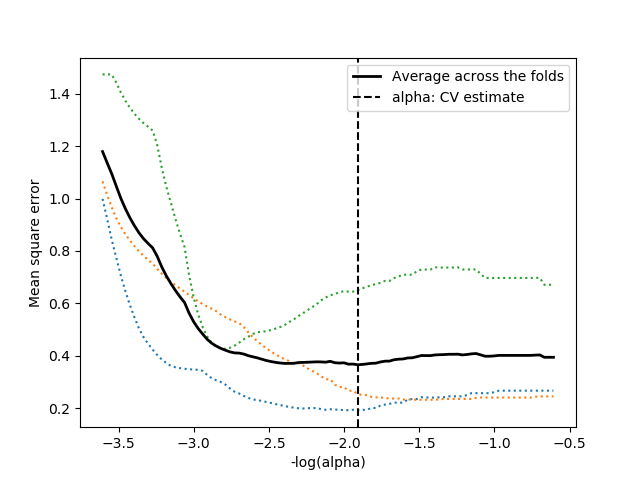
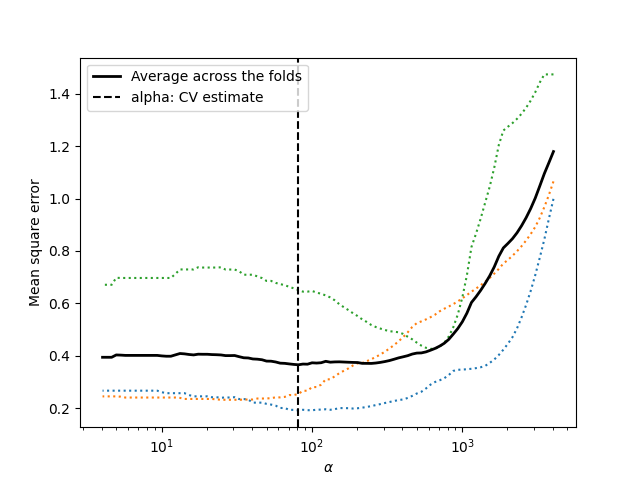
Generate Pelican site

diff --git a/searchindex.js b/searchindex.js
@@ -1,1 +1,1 @@
-Search.setIndex({docnames:["api","auto_examples/index","auto_examples/plot_finance_path","auto_examples/plot_lasso_cv","auto_examples/plot_leukemia_path","auto_examples/sg_execution_times","generated/celer.Lasso","generated/celer.LassoCV","generated/celer.LogisticRegression","generated/celer.MultiTaskLasso","generated/celer.MultiTaskLassoCV","generated/celer.celer","generated/celer.celer_path","index"],envversion:{"sphinx.domains.c":1,"sphinx.domains.changeset":1,"sphinx.domains.citation":1,"sphinx.domains.cpp":1,"sphinx.domains.index":1,"sphinx.domains.javascript":1,"sphinx.domains.math":2,"sphinx.domains.python":1,"sphinx.domains.rst":1,"sphinx.domains.std":1,"sphinx.ext.intersphinx":1,sphinx:56},filenames:["api.rst","auto_examples/index.rst","auto_examples/plot_finance_path.rst","auto_examples/plot_lasso_cv.rst","auto_examples/plot_leukemia_path.rst","auto_examples/sg_execution_times.rst","generated/celer.Lasso.rst","generated/celer.LassoCV.rst","generated/celer.LogisticRegression.rst","generated/celer.MultiTaskLasso.rst","generated/celer.MultiTaskLassoCV.rst","generated/celer.celer.rst","generated/celer.celer_path.rst","index.rst"],objects:{"celer.Lasso":{__init__:[6,1,1,""]},"celer.LassoCV":{__init__:[7,1,1,""]},"celer.LogisticRegression":{__init__:[8,1,1,""]},"celer.MultiTaskLasso":{__init__:[9,1,1,""]},"celer.MultiTaskLassoCV":{__init__:[10,1,1,""]},celer:{Lasso:[6,0,1,""],LassoCV:[7,0,1,""],LogisticRegression:[8,0,1,""],MultiTaskLasso:[9,0,1,""],MultiTaskLassoCV:[10,0,1,""],celer:[11,2,1,""],celer_path:[12,2,1,""]}},objnames:{"0":["py","class","Python class"],"1":["py","method","Python method"],"2":["py","function","Python function"]},objtypes:{"0":"py:class","1":"py:method","2":"py:function"},terms:{"0535517709928683e":4,"0765661510324662e":4,"1667170569728e":4,"200000000000004e":4,"2_2":[6,7,9,10],"339301449134524e":4,"35481672425675e":4,"35th":13,"4048790083265317e":4,"421917989081095e":4,"4293411548192978e":4,"518710595360133e":4,"5788610380247405e":4,"637124461723488e":4,"642283540221229e":4,"691902724867191e":4,"903156405473453e":4,"boolean":[7,10],"break":12,"class":[6,7,8,9,10],"default":[6,7,8,9,10,11,12],"final":11,"float":[3,4,6,7,8,9,10,11,12],"function":[0,6,7,8,9,10,11],"import":[2,3,4,6,8,9,13],"int":[6,7,8,9,10,11,12],"long":2,"return":[11,12],"true":[2,4,6,7,8,9,10,11,12],"while":[8,11],For:[6,7,9,10],Not:8,The:[2,3,4,6,7,8,9,10,11,12],Use:2,Used:12,__doc__:[2,3,4],__init__:[6,7,8,9,10],_coordinate_desc:4,_preprocess_data:12,abl:13,abs:[2,4,8,13],acceler:11,accur:[6,7,8,9,10],across:3,advis:[6,9],agg:[2,3,4],alexandr:13,algorithm:[2,3,4,11,12,13],all:1,along:[7,10,12],alpha:[2,3,4,6,7,9,10,11,12],alpha_:[3,7,10],alpha_max:[2,4,7,10,12],alpha_min:[7,10,12],alphas_:[3,7,10],alreadi:[7,10],aml:[3,4],amount:[6,7,8,9,10,12],anaconda:13,ani:13,arrai:[6,7,9,10,11,12],articl:13,arxiv:[8,13],asfortranarrai:[3,4],astyp:[3,4],attribut:[6,7,8,9,10],author:13,auto:[7,10],auto_exampl:5,auto_examples_jupyt:1,auto_examples_python:1,automat:[7,10,12],avail:13,averag:3,avoid:[11,12],axi:3,axvlin:3,backend:[2,3,4],base:[6,7,8,9,10,12],befor:[6,7,9,10],below:11,best:[7,10],between:[6,9,11,12],binari:8,block:[2,4],booktitl:13,bool:[6,7,8,9,10,11,12],calcul:[7,10],call:[6,8,9,11],can:13,cannot:[2,3,4],caus:3,celer:[2,3,4],celer_path:[2,4,6,7,8,9,10],center:[7,10,12],check:13,chosen:[7,10],classes_:8,classifi:8,clf:[6,8,9],click:[2,3,4],clone:13,coars:[2,4],code:[1,2,3,4,13],coef:[2,4,12],coef_:[6,7,8,9,10],coef_init:12,coeffici:[6,7,8,11,12],color:3,column:[11,12],com:13,compar:[2,4],compat:[7,10],compil:13,comput:[1,6,7,9,10,11,12],confer:13,constant:[6,8,9],constraint:13,construct:2,contigu:[11,12],control:13,converg:[3,4],convergencewarn:[3,4],coordin:[6,7,8,9,10,11,12],cost:[6,7,9,10],cross:[1,5,7,10],csc:[11,12],current:[2,3,4,8],cython:13,data:[2,3,4,7,10,11,12],dataset:[1,5],decis:[6,7,8,9,10],definit:[6,7,8,9,10,11,12],defualt:12,dens:4,descent:[6,7,8,9,10,11,12],detail:8,determin:[7,10],did:[3,4],directli:[11,12],displai:3,distribut:13,divid:[6,7,9,10],doc:13,doing:2,don:13,dot:[2,4],download:[1,2,3,4],dual:[6,7,8,9,10,11,12,13],dual_gap:[4,12],dual_gap_:[7,10],dualiti:[4,6,7,8,9,10,11,12],duplic:[11,12],each:[6,7,8,9,10,12],elimin:13,els:[2,4],enabl:13,end:[7,10],enumer:[2,4],environ:13,epoch:[6,7,8,9,10,11,12],eps:[7,10,12],equival:[6,9],eras:[6,8,9],error:[3,7,10,13],estim:[0,3,6,7,8,9,10,11],everi:[7,10,11],everyth:13,exampl:[2,3,4,6,8,9],execut:5,exist:2,exit:11,expect:[7,10],extrapol:[6,8,9,13],fals:[2,4,6,7,8,9,10,11,12],far:8,fast:[6,9,13],featur:[7,8,10,13],fetch_openml:[3,4],fig:[2,4],figsiz:[2,4],figur:[2,3,4],file:5,financ:[1,5],fine:[2,4,13],first:[6,7,8,9,10,11,12,13],fit:[3,6,7,8,9,10],fit_intercept:[6,7,8,9,10],fold:[3,7,10],forc:[6,7,11,12],format:[11,12],formula:[6,7,9,10],fortran:[11,12],frac:11,from:[2,3,4,6,8,9,13],full:[2,3,4],galleri:[2,3,4],gap:[2,4,6,7,8,9,10,11,12],gap_freq:[2,4,6,7,9,10,11,12],gener:[1,2,3,4,7,8,10,13],git:13,github:13,give:13,given:8,goe:11,gramfort:[6,8,9,13],grid:[2,4,7,10],grow:[6,7,9,10,11,12],gui:[2,3,4],handl:8,help:[6,7,8,9,10],here:[2,3,4],home:[2,3,4],homotopi:3,html:[6,9,13],http:[6,8,9,13],icml:[6,9],identif:13,ignor:[6,7,9,10],implement:[2,4],increas:[3,4],independ:[7,10],initi:[6,7,8,9,10,11,12],inner:[7,10,11,12],inproceed:13,input:[7,10],integ:[6,7,8,9,10,12],intercept:[6,7,8,9,10],intercept_:[6,7,8,9,10],intern:13,invers:8,ipynb:[2,3,4],iter:[3,4,6,7,8,9,10,11,12],joseph:13,journal:13,jupyt:[1,2,3,4],just:[6,8,9,13],kept:[7,10],kfold:[7,10],known:8,label:[2,3,4,8],larg:2,lasso:[1,5,7,9,10,11,12,13],lasso_path:4,lassocv:[1,5,6,9],learn:[2,3,4,6,7,8,9,10,13],least:[6,9],legend:3,len:[2,3,4],length:[7,10,12],leukemia:[1,5],level:11,librari:13,like:[3,11,12],linear:[8,13],linear_model:[4,12],linestyl:3,linewidth:3,link:13,list:[7,8,10,12],load:[3,4],load_libsvm:2,log10:3,log1p:[1,5],log:[3,8,11],logisitc:[],logist:[8,11],logreg:[11,12],logspac:[2,4],loop:[7,10,11],m_log_alpha:3,machin:13,mai:[2,3],make:[2,13],massia:[6,8,9,13],massias18a:[6,9,13],massias2019du:13,mathurin:[2,3,4,13],mathurinm:13,matplotlib:[2,3,4],matrix:[6,9,11,12],max:[2,4],max_epoch:[6,7,8,9,10,11,12],max_it:[2,4,6,7,8,9,10,11,12],maximum:[6,7,8,9,10,11,12],mean:[3,4,6,7,9,10,12],memori:[11,12],messag:13,method:[6,7,8,9,10],might:[3,4],minut:[2,3,4],mlr:[6,9],model:[3,7,8,10,12,13],more:2,mse_path_:[3,7,10],multi:10,multipli:[6,9],must:8,n_alpha:[2,4,7,10,12],n_class:8,n_featur:[6,7,8,9,10,11,12],n_fold:[7,10],n_iter:11,n_iter_:[6,7,8,9,10],n_job:10,n_output:10,n_sampl:[2,3,4,6,7,8,9,10,11,12],ndarrai:[7,8,10,12],need:13,newton:8,non:[2,3,4],none:[2,4,7,10,11,12],norm:[6,7,9,10,12],normal:[6,7,9,10],notebook:[1,2,3,4],noth:2,number:[3,4,6,7,8,9,10,11,12],numer:[6,9],numpi:[2,3,4,7,10],object:[3,4,6,7,8,9,10,11],observ:11,onli:[8,11,12],optim:[6,7,8,9,10,11,12,13],option:[6,7,8,9,10,11,12],ordinari:[6,9],org:[8,13],other:8,otherwis:[6,8,9],out:[2,3,4],outer:11,packag:13,page:13,parallel:10,paramet:[2,3,6,7,8,9,10,11,12],pass:[11,12],path:[1,5,7,10,12],penal:[7,10],penalti:8,pip:13,pleas:13,plot:3,plot_finance_path:[2,5],plot_lasso_cv:[3,5],plot_leukemia_path:[4,5],plot_path_hist:[2,4],plot_util:[2,4],plt:[2,3,4],pmlr:13,point:[11,13],posit:[4,6,7,8,11,12],possibl:[7,10],potenti:11,precis:3,precomput:[7,10],preprint:[8,13],press:[6,9],previou:[6,8,9],print:[2,3,4,6,8,9],problem:[3,8,12],proceed:[6,9,13],prox:8,prune:[2,4,6,7,9,10,11,12],pyplot:[2,3,4],python:[1,2,3,4,13],quick:13,r9848a8cfb00c:6,ra8751a6fb477:8,reach:[6,7,8,9,10,11,12],reason:[6,9],recommend:13,refer:[6,8,9],regress:[6,7,8,9,10,11],regressor:[6,7,9,10],regular:[2,3,7,8,10,11,12],replac:2,repositori:13,represent:[6,9],res:[2,4],residu:13,restrict:8,result:[2,3,4],return_n_it:[11,12],return_theta:[2,4,12],reus:[6,8,9],rfac9a229594a:9,run:[1,2,4,5,6,7,8,9,10,12,13],salmon:[6,8,9,13],samuel:13,scale:12,scikit:[2,3,4,6,7,8,9,10],scipi:[6,9],script:[2,3,4],sec:8,second:[2,3,4],see:[6,7,8,9,10,12],select:[7,10],self:[6,7,8,9,10],set:[6,7,8,9,10,11,12],shape:[2,6,7,8,9,10,11,12],shell:13,should:13,show:[2,3,4],signatur:[6,7,8,9,10],size:[6,8,9,11,12],sklearn:[3,4,7,10,12],small:3,smaller:[6,7,8,9,10,12],solut:[6,8,9,11],solv:[6,7,8,9,10,11,12],solver:[6,7,8,9,10,11,12,13],sourc:[1,2,3,4],spars:[2,6,8,9,11,12,13],sparse_coef_:[6,9],sparsiti:12,specifi:[6,7,8,9,10],sphinx:[1,2,3,4],sphinx_bootstrap_them:13,sphinx_galleri:13,split:[7,10],squar:[3,6,7,9,10],start:[2,4],std:4,still:13,stop:11,strategi:[7,8,10],strength:8,subproblem:[6,7,8,9,10,11,12],subset:8,subtract:[6,7,9,10],sum_1:8,sum_:11,support:8,take:2,target:[3,4,12],task:10,term:[6,7,8,9,10],test:[7,10],text:11,than:[2,6,7,8,9,10,12],theta:[2,4,11,12],thi:[2,6,7,9,10,13],tight:[3,13],time:[2,3,4],titl:13,tol:[2,4,6,7,8,9,10,11,12],tol_ix:[2,4],toler:[4,6,7,8,9,10,11,12],too:2,top:11,total:[2,3,4,5],train:[7,10,11,12],type:[6,7,8,9,10],unnecessari:[11,12],until:[6,7,8,9,10,12],use:[6,7,8,9,10,11,12,13],used:[7,10,12],userwarn:[2,3,4],uses:[8,13],using:[2,3,4,6,9,13],v80:[6,9,13],vaiter:[8,13],valid:[1,5,7,10],valu:[11,12],vari:[7,10],variabl:12,vector:[6,7,9,10,11],verbos:[2,4,6,7,8,9,10,11,12],verbose_inn:[2,4,11,12],veri:3,volum:13,w_init:11,want:[3,4,13],warm_start:[6,8,9],warn:2,when:[6,7,8,9,10,11,12],where:[7,10,12],whether:[6,7,8,9,10,11,12],which:[2,3,4,13],wit:[6,9],without:12,work:[6,7,8,9,10,11,12,13],workspac:[2,3,4],x_i:[8,11],x_offset:12,x_scale:12,xlabel:3,y_i:[8,11],year:13,yet:8,yield:[7,10],ylabel:3,ylim:[2,4],you:[3,4,13],zero:[2,4,12],zip:1},titles:["API Documentation","Examples Gallery","Lasso path computation on Finance/log1p dataset","Run LassoCV for cross-validation on Leukemia dataset","Lasso path computation on Leukemia dataset","Computation times","celer.Lasso","celer.LassoCV","celer.LogisticRegression","celer.MultiTaskLasso","celer.MultiTaskLassoCV","celer.celer","celer.celer_path","Celer"],titleterms:{api:[0,13],build:13,celer:[0,6,7,8,9,10,11,12,13],celer_path:12,cite:13,comput:[2,4,5],cross:3,dataset:[2,3,4],document:[0,13],exampl:1,financ:2,galleri:1,instal:13,lasso:[2,4,6],lassocv:[3,7],leukemia:[3,4],log1p:2,logisticregress:8,multitasklasso:9,multitasklassocv:10,path:[2,4],run:3,time:5,valid:3}})
+Search.setIndex({docnames:["api","auto_examples/index","auto_examples/plot_finance_path","auto_examples/plot_lasso_cv","auto_examples/plot_leukemia_path","auto_examples/sg_execution_times","generated/celer.Lasso","generated/celer.LassoCV","generated/celer.LogisticRegression","generated/celer.MultiTaskLasso","generated/celer.MultiTaskLassoCV","generated/celer.celer","generated/celer.celer_path","index"],envversion:{"sphinx.domains.c":1,"sphinx.domains.changeset":1,"sphinx.domains.citation":1,"sphinx.domains.cpp":1,"sphinx.domains.index":1,"sphinx.domains.javascript":1,"sphinx.domains.math":2,"sphinx.domains.python":1,"sphinx.domains.rst":1,"sphinx.domains.std":1,"sphinx.ext.intersphinx":1,sphinx:56},filenames:["api.rst","auto_examples/index.rst","auto_examples/plot_finance_path.rst","auto_examples/plot_lasso_cv.rst","auto_examples/plot_leukemia_path.rst","auto_examples/sg_execution_times.rst","generated/celer.Lasso.rst","generated/celer.LassoCV.rst","generated/celer.LogisticRegression.rst","generated/celer.MultiTaskLasso.rst","generated/celer.MultiTaskLassoCV.rst","generated/celer.celer.rst","generated/celer.celer_path.rst","index.rst"],objects:{"celer.Lasso":{__init__:[6,1,1,""]},"celer.LassoCV":{__init__:[7,1,1,""]},"celer.LogisticRegression":{__init__:[8,1,1,""]},"celer.MultiTaskLasso":{__init__:[9,1,1,""]},"celer.MultiTaskLassoCV":{__init__:[10,1,1,""]},celer:{Lasso:[6,0,1,""],LassoCV:[7,0,1,""],LogisticRegression:[8,0,1,""],MultiTaskLasso:[9,0,1,""],MultiTaskLassoCV:[10,0,1,""],celer:[11,2,1,""],celer_path:[12,2,1,""]}},objnames:{"0":["py","class","Python class"],"1":["py","method","Python method"],"2":["py","function","Python function"]},objtypes:{"0":"py:class","1":"py:method","2":"py:function"},terms:{"0535517709928683e":4,"0765661510324662e":4,"1667170569728e":4,"200000000000004e":4,"2_2":[6,7,9,10],"339301449134524e":4,"35481672425675e":4,"35th":13,"4048790083265317e":4,"421917989081095e":4,"4293411548192978e":4,"518710595360133e":4,"5788610380247405e":4,"637124461723488e":4,"642283540221229e":4,"691902724867191e":4,"903156405473453e":4,"boolean":[7,10],"break":12,"class":[6,7,8,9,10],"default":[6,7,8,9,10,11,12],"final":11,"float":[3,4,6,7,8,9,10,11,12],"function":[0,6,7,8,9,10,11],"import":[2,3,4,6,8,9,13],"int":[6,7,8,9,10,11,12],"long":2,"return":[11,12],"true":[2,4,6,7,8,9,10,11,12],"while":[8,11],For:[6,7,9,10],Not:8,The:[2,3,4,6,7,8,9,10,11,12],Use:2,Used:12,__doc__:[2,3,4],__init__:[6,7,8,9,10],_coordinate_desc:4,_preprocess_data:12,abl:13,abs:[2,4,8,13],acceler:11,accur:[6,7,8,9,10],across:3,advis:[6,9],agg:[2,3,4],alexandr:13,algorithm:[2,3,4,11,12,13],all:1,along:[7,10,12],alpha:[2,3,4,6,7,9,10,11,12],alpha_:[3,7,10],alpha_max:[2,4,7,10,12],alpha_min:[7,10,12],alphas_:[3,7,10],alreadi:[7,10],aml:[3,4],amount:[6,7,8,9,10,12],anaconda:13,ani:13,arrai:[6,7,9,10,11,12],articl:13,arxiv:[8,13],asfortranarrai:[3,4],astyp:[3,4],attribut:[6,7,8,9,10],author:13,auto:[7,10],auto_exampl:5,auto_examples_jupyt:1,auto_examples_python:1,automat:[7,10,12],avail:13,averag:3,avoid:[11,12],axi:3,axvlin:3,backend:[2,3,4],base:[6,7,8,9,10,12],befor:[6,7,9,10],below:11,best:[7,10],between:[6,9,11,12],binari:8,block:[2,4],booktitl:13,bool:[6,7,8,9,10,11,12],calcul:[7,10],call:[6,8,9,11],can:13,cannot:[2,3,4],caus:3,celer:[2,3,4],celer_path:[2,4,6,7,8,9,10],center:[7,10,12],check:13,chosen:[7,10],classes_:8,classifi:8,clf:[6,8,9],click:[2,3,4],clone:13,coars:[2,4],code:[1,2,3,4,13],coef:[2,4,12],coef_:[6,7,8,9,10],coef_init:12,coeffici:[6,7,8,11,12],color:3,column:[11,12],com:13,compar:[2,4],compat:[7,10],compil:13,comput:[1,6,7,9,10,11,12],confer:13,constant:[6,8,9],constraint:13,construct:2,contigu:[11,12],control:13,converg:[3,4],convergencewarn:[3,4],coordin:[6,7,8,9,10,11,12],cost:[6,7,9,10],cross:[1,5,7,10],csc:[11,12],current:[2,3,4,8],cython:13,data:[2,3,4,7,10,11,12],dataset:[1,5],decis:[6,7,8,9,10],definit:[6,7,8,9,10,11,12],defualt:12,dens:4,descent:[6,7,8,9,10,11,12],detail:8,determin:[7,10],did:[3,4],directli:[11,12],displai:3,distribut:13,divid:[6,7,9,10],doc:13,doing:2,don:13,dot:[2,4],download:[1,2,3,4],dual:[6,7,8,9,10,11,12,13],dual_gap:[4,12],dual_gap_:[7,10],dualiti:[4,6,7,8,9,10,11,12],duplic:[11,12],each:[6,7,8,9,10,12],elimin:13,els:[2,4],enabl:13,end:[7,10],enumer:[2,4],environ:13,epoch:[6,7,8,9,10,11,12],eps:[7,10,12],equival:[6,9],eras:[6,8,9],error:[3,7,10,13],estim:[0,3,6,7,8,9,10,11],everi:[7,10,11],everyth:13,exampl:[2,3,4,6,8,9],execut:5,exist:2,exit:11,expect:[7,10],extrapol:[6,8,9,13],fals:[2,4,6,7,8,9,10,11,12],far:8,fast:[6,9,13],featur:[7,8,10,13],fetch_openml:[3,4],fig:[2,4],figsiz:[2,4],figur:[2,3,4],file:5,financ:[1,5],fine:[2,4,13],first:[6,7,8,9,10,11,12,13],fit:[3,6,7,8,9,10],fit_intercept:[6,7,8,9,10],fold:[3,7,10],forc:[6,7,11,12],format:[11,12],formula:[6,7,9,10],fortran:[11,12],frac:11,from:[2,3,4,6,8,9,13],full:[2,3,4],galleri:[2,3,4],gap:[2,4,6,7,8,9,10,11,12],gap_freq:[2,4,6,7,9,10,11,12],gener:[1,2,3,4,7,8,10,13],git:13,github:13,give:13,given:8,goe:11,gramfort:[6,8,9,13],grid:[2,4,7,10],grow:[6,7,9,10,11,12],gui:[2,3,4],handl:8,help:[6,7,8,9,10],here:[2,3,4],home:[2,3,4],homotopi:3,html:[6,9,13],http:[6,8,9,13],icml:[6,9],identif:13,ignor:[6,7,9,10],implement:[2,4],increas:[3,4],independ:[7,10],initi:[6,7,8,9,10,11,12],inner:[7,10,11,12],inproceed:13,input:[7,10],integ:[6,7,8,9,10,12],intercept:[6,7,8,9,10],intercept_:[6,7,8,9,10],intern:13,invers:8,ipynb:[2,3,4],iter:[3,4,6,7,8,9,10,11,12],joseph:13,journal:13,jupyt:[1,2,3,4],just:[6,8,9,13],kept:[7,10],kfold:[7,10],known:8,label:[2,3,4,8],larg:2,lasso:[1,5,7,9,10,11,12,13],lasso_path:4,lassocv:[1,5,6,9],learn:[2,3,4,6,7,8,9,10,13],least:[6,9],legend:3,len:[2,4],length:[7,10,12],leukemia:[1,5],level:11,librari:13,like:[3,11,12],linear:[8,13],linear_model:[4,12],linestyl:3,linewidth:3,link:13,list:[7,8,10,12],load:[3,4],load_libsvm:2,log10:[],log1p:[1,5],log:[8,11],logist:[8,11],logreg:[11,12],logspac:[2,4],loop:[7,10,11],m_log_alpha:[],machin:13,mai:[2,3],make:[2,13],massia:[6,8,9,13],massias18a:[6,9,13],massias2019du:13,mathurin:[2,3,4,13],mathurinm:13,matplotlib:[2,3,4],matrix:[6,9,11,12],max:[2,4],max_epoch:[6,7,8,9,10,11,12],max_it:[2,4,6,7,8,9,10,11,12],maximum:[6,7,8,9,10,11,12],mean:[3,4,6,7,9,10,12],memori:[11,12],messag:13,method:[6,7,8,9,10],might:[3,4],minut:[2,3,4],mlr:[6,9],model:[3,7,8,10,12,13],more:2,mse_path_:[3,7,10],multi:10,multipli:[6,9],must:8,n_alpha:[2,4,7,10,12],n_class:8,n_featur:[6,7,8,9,10,11,12],n_fold:[7,10],n_iter:11,n_iter_:[6,7,8,9,10],n_job:10,n_output:10,n_sampl:[2,4,6,7,8,9,10,11,12],ndarrai:[7,8,10,12],need:13,newton:8,non:[2,3,4],none:[2,4,7,10,11,12],norm:[6,7,9,10,12],normal:[6,7,9,10],notebook:[1,2,3,4],noth:2,number:[3,4,6,7,8,9,10,11,12],numer:[6,9],numpi:[2,3,4,7,10],object:[3,4,6,7,8,9,10,11],observ:11,onli:[8,11,12],optim:[6,7,8,9,10,11,12,13],option:[6,7,8,9,10,11,12],ordinari:[6,9],org:[8,13],other:8,otherwis:[6,8,9],out:[2,3,4],outer:11,packag:13,page:13,parallel:10,paramet:[2,3,6,7,8,9,10,11,12],pass:[11,12],path:[1,5,7,10,12],penal:[7,10],penalti:8,pip:13,pleas:13,plot:[],plot_finance_path:[2,5],plot_lasso_cv:[3,5],plot_leukemia_path:[4,5],plot_path_hist:[2,4],plot_util:[2,4],plt:[2,3,4],pmlr:13,point:[11,13],posit:[4,6,7,8,11,12],possibl:[7,10],potenti:11,precis:3,precomput:[7,10],preprint:[8,13],press:[6,9],previou:[6,8,9],print:[2,3,4,6,8,9],problem:[3,8,12],proceed:[6,9,13],prox:8,prune:[2,4,6,7,9,10,11,12],pyplot:[2,3,4],python:[1,2,3,4,13],quick:13,r9848a8cfb00c:6,ra8751a6fb477:8,reach:[6,7,8,9,10,11,12],reason:[6,9],recommend:13,refer:[6,8,9],regress:[6,7,8,9,10,11],regressor:[6,7,9,10],regular:[2,3,7,8,10,11,12],replac:2,repositori:13,represent:[6,9],res:[2,4],residu:13,restrict:8,result:[2,3,4],return_n_it:[11,12],return_theta:[2,4,12],reus:[6,8,9],rfac9a229594a:9,run:[1,2,4,5,6,7,8,9,10,12,13],salmon:[6,8,9,13],samuel:13,scale:12,scikit:[2,3,4,6,7,8,9,10],scipi:[6,9],script:[2,3,4],sec:8,second:[2,3,4],see:[6,7,8,9,10,12],select:[7,10],self:[6,7,8,9,10],semilogx:3,set:[6,7,8,9,10,11,12],shape:[2,6,7,8,9,10,11,12],shell:13,should:13,show:[2,3,4],signatur:[6,7,8,9,10],size:[6,8,9,11,12],sklearn:[3,4,7,10,12],small:3,smaller:[6,7,8,9,10,12],solut:[6,8,9,11],solv:[6,7,8,9,10,11,12],solver:[6,7,8,9,10,11,12,13],sourc:[1,2,3,4],spars:[2,6,8,9,11,12,13],sparse_coef_:[6,9],sparsiti:12,specifi:[6,7,8,9,10],sphinx:[1,2,3,4],sphinx_bootstrap_them:13,sphinx_galleri:13,split:[7,10],squar:[3,6,7,9,10],start:[2,4],std:4,still:13,stop:11,strategi:[7,8,10],strength:8,subproblem:[6,7,8,9,10,11,12],subset:8,subtract:[6,7,9,10],sum_1:8,sum_:11,support:8,take:2,target:[3,4,12],task:10,term:[6,7,8,9,10],test:[7,10],text:11,than:[2,6,7,8,9,10,12],theta:[2,4,11,12],thi:[2,6,7,9,10,13],tight:[3,13],time:[2,3,4],titl:13,tol:[2,4,6,7,8,9,10,11,12],tol_ix:[2,4],toler:[4,6,7,8,9,10,11,12],too:2,top:11,total:[2,3,4,5],train:[7,10,11,12],type:[6,7,8,9,10],unnecessari:[11,12],until:[6,7,8,9,10,12],use:[6,7,8,9,10,11,12,13],used:[7,10,12],userwarn:[2,3,4],uses:[8,13],using:[2,3,4,6,9,13],v80:[6,9,13],vaiter:[8,13],valid:[1,5,7,10],valu:[11,12],vari:[7,10],variabl:12,vector:[6,7,9,10,11],verbos:[2,4,6,7,8,9,10,11,12],verbose_inn:[2,4,11,12],veri:3,volum:13,w_init:11,want:[3,4,13],warm_start:[6,8,9],warn:2,when:[6,7,8,9,10,11,12],where:[7,10,12],whether:[6,7,8,9,10,11,12],which:[2,3,4,13],wit:[6,9],without:12,work:[6,7,8,9,10,11,12,13],workspac:[2,3,4],x_i:[8,11],x_offset:12,x_scale:12,xlabel:3,y_i:[8,11],year:13,yet:8,yield:[7,10],ylabel:3,ylim:[2,4],you:[3,4,13],zero:[2,4,12],zip:1},titles:["API Documentation","Examples Gallery","Lasso path computation on Finance/log1p dataset","Run LassoCV for cross-validation on Leukemia dataset","Lasso path computation on Leukemia dataset","Computation times","celer.Lasso","celer.LassoCV","celer.LogisticRegression","celer.MultiTaskLasso","celer.MultiTaskLassoCV","celer.celer","celer.celer_path","Celer"],titleterms:{api:[0,13],build:13,celer:[0,6,7,8,9,10,11,12,13],celer_path:12,cite:13,comput:[2,4,5],cross:3,dataset:[2,3,4],document:[0,13],exampl:1,financ:2,galleri:1,instal:13,lasso:[2,4,6],lassocv:[3,7],leukemia:[3,4],log1p:2,logisticregress:8,multitasklasso:9,multitasklassocv:10,path:[2,4],run:3,time:5,valid:3}})

diff --git a/auto_examples/plot_lasso_cv.html b/auto_examples/plot_lasso_cv.html
@@ -120,7 +120,7 @@ using the Celer algorithm.</p>
 /home/mathurin/workspace/celer/celer/homotopy.py:242: ConvergenceWarning: Objective did not converge. You might want to increase the number of iterations. Fitting data with very small alpha may cause precision problems.
   ConvergenceWarning)
 Estimated regularization parameter alpha: 81.38126193253959
-/home/mathurin/workspace/celer/examples/plot_lasso_cv.py:45: UserWarning: Matplotlib is currently using agg, which is a non-GUI backend, so cannot show the figure.
+/home/mathurin/workspace/celer/examples/plot_lasso_cv.py:43: UserWarning: Matplotlib is currently using agg, which is a non-GUI backend, so cannot show the figure.
   plt.show()
 </pre></div>
 </div>
@@ -138,34 +138,32 @@ Estimated regularization parameter alpha: 81.38126193253959
 
 <span class="nb">print</span><span class="p">(</span><span class="s2">&quot;Loading data...&quot;</span><span class="p">)</span>
 <span class="n">dataset</span> <span class="o">=</span> <a href="https://scikit-learn.org/stable/modules/generated/sklearn.datasets.fetch_openml.html#sklearn.datasets.fetch_openml" title="View documentation for sklearn.datasets.fetch_openml"><span class="n">fetch_openml</span></a><span class="p">(</span><span class="s2">&quot;leukemia&quot;</span><span class="p">)</span>
-<span class="n">X</span> <span class="o">=</span> <a href="https://docs.scipy.org/doc/numpy/reference/generated/numpy.asfortranarray.html#numpy.asfortranarray" title="View documentation for numpy.asfortranarray"><span class="n">np</span><span class="o">.</span><span class="n">asfortranarray</span></a><span class="p">(</span><span class="n">dataset</span><span class="o">.</span><span class="n">data</span><span class="o">.</span><span class="n">astype</span><span class="p">(</span><span class="nb">float</span><span class="p">))</span>
-<span class="n">y</span> <span class="o">=</span> <span class="mi">2</span> <span class="o">*</span> <span class="p">((</span><span class="n">dataset</span><span class="o">.</span><span class="n">target</span> <span class="o">==</span> <span class="s2">&quot;AML&quot;</span><span class="p">)</span> <span class="o">-</span> <span class="mf">0.5</span><span class="p">)</span>
-<span class="n">n_samples</span> <span class="o">=</span> <span class="nb">len</span><span class="p">(</span><span class="n">y</span><span class="p">)</span>
+<a href="https://docs.scipy.org/doc/numpy/reference/generated/numpy.ndarray.html#numpy.ndarray" title="View documentation for numpy.ndarray"><span class="n">X</span></a> <span class="o">=</span> <a href="https://docs.scipy.org/doc/numpy/reference/generated/numpy.asfortranarray.html#numpy.asfortranarray" title="View documentation for numpy.asfortranarray"><span class="n">np</span><span class="o">.</span><span class="n">asfortranarray</span></a><span class="p">(</span><span class="n">dataset</span><span class="o">.</span><span class="n">data</span><span class="o">.</span><span class="n">astype</span><span class="p">(</span><span class="nb">float</span><span class="p">))</span>
+<a href="https://docs.scipy.org/doc/numpy/reference/generated/numpy.ndarray.html#numpy.ndarray" title="View documentation for numpy.ndarray"><span class="n">y</span></a> <span class="o">=</span> <span class="mi">2</span> <span class="o">*</span> <span class="p">((</span><span class="n">dataset</span><span class="o">.</span><span class="n">target</span> <span class="o">==</span> <span class="s2">&quot;AML&quot;</span><span class="p">)</span> <span class="o">-</span> <span class="mf">0.5</span><span class="p">)</span>
 
-<span class="n">model</span> <span class="o">=</span> <a href="../generated/celer.LassoCV.html#celer.LassoCV" title="View documentation for celer.LassoCV"><span class="n">LassoCV</span></a><span class="p">(</span><span class="n">cv</span><span class="o">=</span><span class="mi">3</span><span class="p">)</span>
-<span class="n">model</span><span class="o">.</span><span class="n">fit</span><span class="p">(</span><span class="n">X</span><span class="p">,</span> <span class="n">y</span><span class="p">)</span>
+<a href="../generated/celer.LassoCV.html#celer.LassoCV" title="View documentation for celer.LassoCV"><span class="n">model</span></a> <span class="o">=</span> <a href="../generated/celer.LassoCV.html#celer.LassoCV" title="View documentation for celer.LassoCV"><span class="n">LassoCV</span></a><span class="p">(</span><span class="n">cv</span><span class="o">=</span><span class="mi">3</span><span class="p">)</span>
+<a href="../generated/celer.LassoCV.html#celer.LassoCV" title="View documentation for celer.LassoCV"><span class="n">model</span></a><span class="o">.</span><span class="n">fit</span><span class="p">(</span><a href="https://docs.scipy.org/doc/numpy/reference/generated/numpy.ndarray.html#numpy.ndarray" title="View documentation for numpy.ndarray"><span class="n">X</span></a><span class="p">,</span> <a href="https://docs.scipy.org/doc/numpy/reference/generated/numpy.ndarray.html#numpy.ndarray" title="View documentation for numpy.ndarray"><span class="n">y</span></a><span class="p">)</span>
 
-<span class="nb">print</span><span class="p">(</span><span class="s2">&quot;Estimated regularization parameter alpha: </span><span class="si">%s</span><span class="s2">&quot;</span> <span class="o">%</span> <span class="n">model</span><span class="o">.</span><span class="n">alpha_</span><span class="p">)</span>
+<span class="nb">print</span><span class="p">(</span><span class="s2">&quot;Estimated regularization parameter alpha: </span><span class="si">%s</span><span class="s2">&quot;</span> <span class="o">%</span> <a href="../generated/celer.LassoCV.html#celer.LassoCV" title="View documentation for celer.LassoCV"><span class="n">model</span></a><span class="o">.</span><span class="n">alpha_</span><span class="p">)</span>
 
 <span class="c1"># Display results</span>
-<span class="n">m_log_alphas</span> <span class="o">=</span> <span class="o">-</span><a href="https://docs.scipy.org/doc/numpy/reference/generated/numpy.log10.html#numpy.log10" title="View documentation for numpy.log10"><span class="n">np</span><span class="o">.</span><span class="n">log10</span></a><span class="p">(</span><span class="n">model</span><span class="o">.</span><span class="n">alphas_</span><span class="p">)</span>
 
 <a href="https://matplotlib.org/api/_as_gen/matplotlib.pyplot.figure.html#matplotlib.pyplot.figure" title="View documentation for matplotlib.pyplot.figure"><span class="n">plt</span><span class="o">.</span><span class="n">figure</span></a><span class="p">()</span>
-<a href="https://matplotlib.org/api/_as_gen/matplotlib.pyplot.plot.html#matplotlib.pyplot.plot" title="View documentation for matplotlib.pyplot.plot"><span class="n">plt</span><span class="o">.</span><span class="n">plot</span></a><span class="p">(</span><span class="n">m_log_alphas</span><span class="p">,</span> <span class="n">model</span><span class="o">.</span><span class="n">mse_path_</span><span class="p">,</span> <span class="s1">&#39;:&#39;</span><span class="p">)</span>
-<a href="https://matplotlib.org/api/_as_gen/matplotlib.pyplot.plot.html#matplotlib.pyplot.plot" title="View documentation for matplotlib.pyplot.plot"><span class="n">plt</span><span class="o">.</span><span class="n">plot</span></a><span class="p">(</span><span class="n">m_log_alphas</span><span class="p">,</span> <span class="n">model</span><span class="o">.</span><span class="n">mse_path_</span><span class="o">.</span><span class="n">mean</span><span class="p">(</span><span class="n">axis</span><span class="o">=-</span><span class="mi">1</span><span class="p">),</span> <span class="s1">&#39;k&#39;</span><span class="p">,</span>
-         <span class="n">label</span><span class="o">=</span><span class="s1">&#39;Average across the folds&#39;</span><span class="p">,</span> <span class="n">linewidth</span><span class="o">=</span><span class="mi">2</span><span class="p">)</span>
-<a href="https://matplotlib.org/api/_as_gen/matplotlib.pyplot.axvline.html#matplotlib.pyplot.axvline" title="View documentation for matplotlib.pyplot.axvline"><span class="n">plt</span><span class="o">.</span><span class="n">axvline</span></a><span class="p">(</span><span class="o">-</span><a href="https://docs.scipy.org/doc/numpy/reference/generated/numpy.log10.html#numpy.log10" title="View documentation for numpy.log10"><span class="n">np</span><span class="o">.</span><span class="n">log10</span></a><span class="p">(</span><span class="n">model</span><span class="o">.</span><span class="n">alpha_</span><span class="p">),</span> <span class="n">linestyle</span><span class="o">=</span><span class="s1">&#39;--&#39;</span><span class="p">,</span> <span class="n">color</span><span class="o">=</span><span class="s1">&#39;k&#39;</span><span class="p">,</span>
+<a href="https://matplotlib.org/api/_as_gen/matplotlib.pyplot.semilogx.html#matplotlib.pyplot.semilogx" title="View documentation for matplotlib.pyplot.semilogx"><span class="n">plt</span><span class="o">.</span><span class="n">semilogx</span></a><span class="p">(</span><a href="../generated/celer.LassoCV.html#celer.LassoCV" title="View documentation for celer.LassoCV"><span class="n">model</span></a><span class="o">.</span><span class="n">alphas_</span><span class="p">,</span> <a href="../generated/celer.LassoCV.html#celer.LassoCV" title="View documentation for celer.LassoCV"><span class="n">model</span></a><span class="o">.</span><span class="n">mse_path_</span><span class="p">,</span> <span class="s1">&#39;:&#39;</span><span class="p">)</span>
+<a href="https://matplotlib.org/api/_as_gen/matplotlib.pyplot.semilogx.html#matplotlib.pyplot.semilogx" title="View documentation for matplotlib.pyplot.semilogx"><span class="n">plt</span><span class="o">.</span><span class="n">semilogx</span></a><span class="p">(</span><a href="../generated/celer.LassoCV.html#celer.LassoCV" title="View documentation for celer.LassoCV"><span class="n">model</span></a><span class="o">.</span><span class="n">alphas_</span><span class="p">,</span> <a href="../generated/celer.LassoCV.html#celer.LassoCV" title="View documentation for celer.LassoCV"><span class="n">model</span></a><span class="o">.</span><span class="n">mse_path_</span><span class="o">.</span><span class="n">mean</span><span class="p">(</span><span class="n">axis</span><span class="o">=-</span><span class="mi">1</span><span class="p">),</span> <span class="s1">&#39;k&#39;</span><span class="p">,</span>
+             <span class="n">label</span><span class="o">=</span><span class="s1">&#39;Average across the folds&#39;</span><span class="p">,</span> <span class="n">linewidth</span><span class="o">=</span><span class="mi">2</span><span class="p">)</span>
+<a href="https://matplotlib.org/api/_as_gen/matplotlib.pyplot.axvline.html#matplotlib.pyplot.axvline" title="View documentation for matplotlib.pyplot.axvline"><span class="n">plt</span><span class="o">.</span><span class="n">axvline</span></a><span class="p">(</span><a href="../generated/celer.LassoCV.html#celer.LassoCV" title="View documentation for celer.LassoCV"><span class="n">model</span></a><span class="o">.</span><span class="n">alpha_</span><span class="p">,</span> <span class="n">linestyle</span><span class="o">=</span><span class="s1">&#39;--&#39;</span><span class="p">,</span> <span class="n">color</span><span class="o">=</span><span class="s1">&#39;k&#39;</span><span class="p">,</span>
             <span class="n">label</span><span class="o">=</span><span class="s1">&#39;alpha: CV estimate&#39;</span><span class="p">)</span>
 
 <a href="https://matplotlib.org/api/_as_gen/matplotlib.pyplot.legend.html#matplotlib.pyplot.legend" title="View documentation for matplotlib.pyplot.legend"><span class="n">plt</span><span class="o">.</span><span class="n">legend</span></a><span class="p">()</span>
 
-<a href="https://matplotlib.org/api/_as_gen/matplotlib.pyplot.xlabel.html#matplotlib.pyplot.xlabel" title="View documentation for matplotlib.pyplot.xlabel"><span class="n">plt</span><span class="o">.</span><span class="n">xlabel</span></a><span class="p">(</span><span class="s1">&#39;-log(alpha)&#39;</span><span class="p">)</span>
+<a href="https://matplotlib.org/api/_as_gen/matplotlib.pyplot.xlabel.html#matplotlib.pyplot.xlabel" title="View documentation for matplotlib.pyplot.xlabel"><span class="n">plt</span><span class="o">.</span><span class="n">xlabel</span></a><span class="p">(</span><span class="sa">r</span><span class="s1">&#39;$\alpha$&#39;</span><span class="p">)</span>
 <a href="https://matplotlib.org/api/_as_gen/matplotlib.pyplot.ylabel.html#matplotlib.pyplot.ylabel" title="View documentation for matplotlib.pyplot.ylabel"><span class="n">plt</span><span class="o">.</span><span class="n">ylabel</span></a><span class="p">(</span><span class="s1">&#39;Mean square error&#39;</span><span class="p">)</span>
 <a href="https://matplotlib.org/api/_as_gen/matplotlib.pyplot.axis.html#matplotlib.pyplot.axis" title="View documentation for matplotlib.pyplot.axis"><span class="n">plt</span><span class="o">.</span><span class="n">axis</span></a><span class="p">(</span><span class="s1">&#39;tight&#39;</span><span class="p">)</span>
 <a href="https://matplotlib.org/api/_as_gen/matplotlib.pyplot.show.html#matplotlib.pyplot.show" title="View documentation for matplotlib.pyplot.show"><span class="n">plt</span><span class="o">.</span><span class="n">show</span></a><span class="p">()</span>
 </pre></div>
 </div>
-<p class="sphx-glr-timing"><strong>Total running time of the script:</strong> ( 0 minutes  0.917 seconds)</p>
+<p class="sphx-glr-timing"><strong>Total running time of the script:</strong> ( 0 minutes  1.084 seconds)</p>
 <div class="sphx-glr-footer class sphx-glr-footer-example docutils container" id="sphx-glr-download-auto-examples-plot-lasso-cv-py">
 <div class="sphx-glr-download docutils container">
 <p><a class="reference download internal" download="" href="../_downloads/060941a352d46300c399eaf21427e187/plot_lasso_cv.py"><code class="xref download docutils literal notranslate"><span class="pre">Download</span> <span class="pre">Python</span> <span class="pre">source</span> <span class="pre">code:</span> <span class="pre">plot_lasso_cv.py</span></code></a></p>

diff --git a/auto_examples/sg_execution_times.html b/auto_examples/sg_execution_times.html
@@ -108,12 +108,28 @@
   
   <div class="section" id="computation-times">
 <span id="sphx-glr-auto-examples-sg-execution-times"></span><h1>Computation times<a class="headerlink" href="#computation-times" title="Permalink to this headline">¶</a></h1>
-<p><strong>00:37.071</strong> total execution time for <strong>auto_examples</strong> files:</p>
-<ul class="simple">
-<li><p><strong>00:37.071</strong>: <a class="reference internal" href="plot_finance_path.html#sphx-glr-auto-examples-plot-finance-path-py"><span class="std std-ref">Lasso path computation on Finance/log1p dataset</span></a> (<code class="docutils literal notranslate"><span class="pre">plot_finance_path.py</span></code>)</p></li>
-<li><p><strong>00:00.000</strong>: <a class="reference internal" href="plot_lasso_cv.html#sphx-glr-auto-examples-plot-lasso-cv-py"><span class="std std-ref">Run LassoCV for cross-validation on Leukemia dataset</span></a> (<code class="docutils literal notranslate"><span class="pre">plot_lasso_cv.py</span></code>)</p></li>
-<li><p><strong>00:00.000</strong>: <a class="reference internal" href="plot_leukemia_path.html#sphx-glr-auto-examples-plot-leukemia-path-py"><span class="std std-ref">Lasso path computation on Leukemia dataset</span></a> (<code class="docutils literal notranslate"><span class="pre">plot_leukemia_path.py</span></code>)</p></li>
-</ul>
+<p><strong>00:01.084</strong> total execution time for <strong>auto_examples</strong> files:</p>
+<table class="docutils align-default">
+<colgroup>
+<col style="width: 81%" />
+<col style="width: 11%" />
+<col style="width: 8%" />
+</colgroup>
+<tbody>
+<tr class="row-odd"><td><p><a class="reference internal" href="plot_lasso_cv.html#sphx-glr-auto-examples-plot-lasso-cv-py"><span class="std std-ref">Run LassoCV for cross-validation on Leukemia dataset</span></a> (<code class="docutils literal notranslate"><span class="pre">plot_lasso_cv.py</span></code>)</p></td>
+<td><p>00:01.084</p></td>
+<td><p>0.0 MB</p></td>
+</tr>
+<tr class="row-even"><td><p><a class="reference internal" href="plot_finance_path.html#sphx-glr-auto-examples-plot-finance-path-py"><span class="std std-ref">Lasso path computation on Finance/log1p dataset</span></a> (<code class="docutils literal notranslate"><span class="pre">plot_finance_path.py</span></code>)</p></td>
+<td><p>00:00.000</p></td>
+<td><p>0.0 MB</p></td>
+</tr>
+<tr class="row-odd"><td><p><a class="reference internal" href="plot_leukemia_path.html#sphx-glr-auto-examples-plot-leukemia-path-py"><span class="std std-ref">Lasso path computation on Leukemia dataset</span></a> (<code class="docutils literal notranslate"><span class="pre">plot_leukemia_path.py</span></code>)</p></td>
+<td><p>00:00.000</p></td>
+<td><p>0.0 MB</p></td>
+</tr>
+</tbody>
+</table>
 </div>
 
 

diff --git a/_downloads/060941a352d46300c399eaf21427e187/plot_lasso_cv.py b/_downloads/060941a352d46300c399eaf21427e187/plot_lasso_cv.py
@@ -20,7 +20,6 @@ print("Loading data...")
 dataset = fetch_openml("leukemia")
 X = np.asfortranarray(dataset.data.astype(float))
 y = 2 * ((dataset.target == "AML") - 0.5)
-n_samples = len(y)
 
 model = LassoCV(cv=3)
 model.fit(X, y)
@@ -28,18 +27,17 @@ model.fit(X, y)
 print("Estimated regularization parameter alpha: %s" % model.alpha_)
 
 # Display results
-m_log_alphas = -np.log10(model.alphas_)
 
 plt.figure()
-plt.plot(m_log_alphas, model.mse_path_, ':')
-plt.plot(m_log_alphas, model.mse_path_.mean(axis=-1), 'k',
-         label='Average across the folds', linewidth=2)
-plt.axvline(-np.log10(model.alpha_), linestyle='--', color='k',
+plt.semilogx(model.alphas_, model.mse_path_, ':')
+plt.semilogx(model.alphas_, model.mse_path_.mean(axis=-1), 'k',
+             label='Average across the folds', linewidth=2)
+plt.axvline(model.alpha_, linestyle='--', color='k',
             label='alpha: CV estimate')
 
 plt.legend()
 
-plt.xlabel('-log(alpha)')
+plt.xlabel(r'$\alpha$')
 plt.ylabel('Mean square error')
 plt.axis('tight')
 plt.show()
